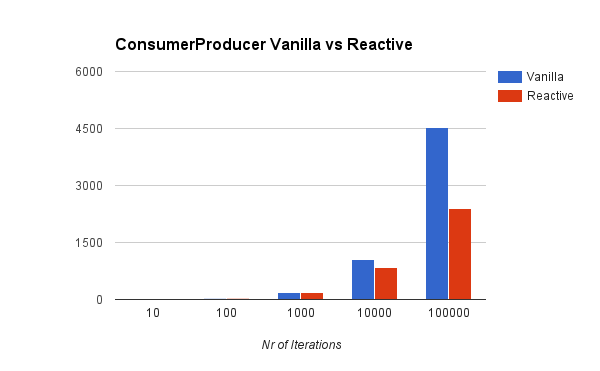
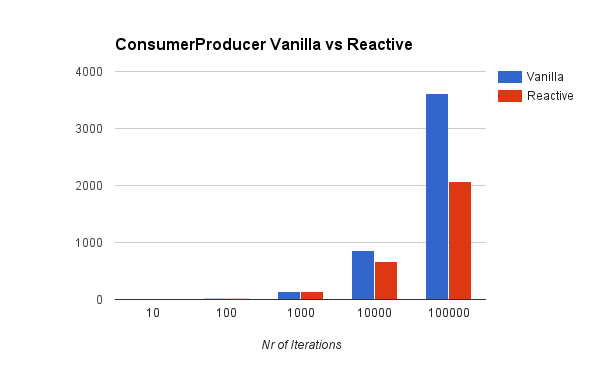
update README with test results

diff --git a/README.md b/README.md
@@ -7,7 +7,8 @@ This is a fork of [kafka-storm-starter](https://github.com/miguno/kafka-storm-st
 ---
 
 # Test Cases
-The tests use kafka 0.8.2.2 and reactive-kafka 0.8.4 (which uses akka-streams 2)
+The tests use kafka 0.8.2.2 and reactive-kafka 0.8.5-SNAPSHOT (which uses akka-streams 2 and grapstage)
+
 
 ## Consumer
 
@@ -29,11 +30,11 @@ This "flow" is tested by creating a producer that sends N messages to "topicIn" 
 
 Nr of messages  | vanilla api (rps) | reactive-kafka api (rps) |
 --------------- | -----------------:| ------------------------:|
-10     | 3.39     | 3.54
-100    | 32.17    | 31.51
-1000   | 265.93   | 257.58
-10000  | 1,516.64 | 1,588.79
-100000 | 5,821.53 | 5,841.08
+10     | 3.50     | 3.28 
+100    | 23.43    | 24.71 
+1000   | 193.64   | 199.77 
+10000  | 1,190.04 | 1,246.79 
+100000 | 4,822.18 | 5,137.33 
 
 ![Consumer results](images/Consumer Vanilla vs Reactive.png)
 
@@ -41,10 +42,10 @@ Nr of messages  | vanilla api (rps) | reactive-kafka api (rps) |
 
 Nr of messages  | vanilla api (rps) | reactive-kafka api (rps) |
 --------------- | -----------------:| ------------------------:|
-10     | 2.72     | 2.71
-100    | 22.93    | 24.58
-1000   | 176.59   | 173.61
-10000  | 1,053.37 | 854.11
-100000 | 4,531.67 | 2,398.79
+10     | 2.98     | 2.94 
+100    | 18.06    | 17.52 
+1000   | 145.40   | 132.10 
+10000  | 852.39   | 666.82 
+100000 | 3,605.77 | 2,072.56 
 
 ![ConsumerProducer results](images/ConsumerProducer Vanilla vs Reactive.png)
